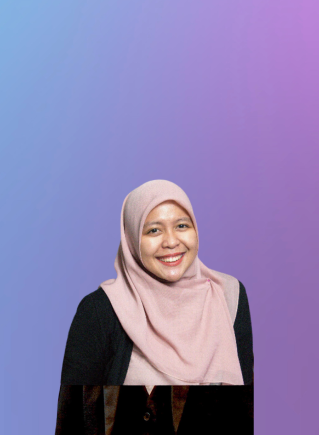
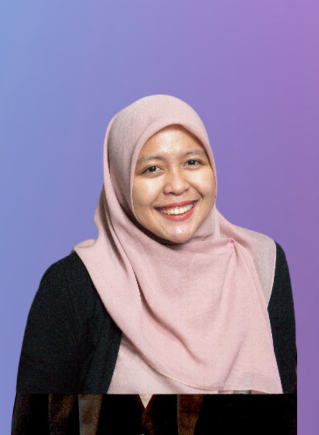
change seminar  speaker image,fix button for lg breakpoint

diff --git a/components/organisms/Dashboard/NotRegistered.jsx b/components/organisms/Dashboard/NotRegistered.jsx
@@ -38,8 +38,11 @@ export default function NotRegistered({ type }) {
           Tekan tombol di bawah ini <br />
           untuk mengetahui info lebih lanjut.
         </p>
-        <div className="flex flex-col lg:flex-row items-center justify-center w-full gap-2 lg:gap-4 md:w-4/5 lg:w-full xl:w-[60%] ">
-          <Link href={`/${type}`} className="w-3/4 mt-3 font-semibold">
+        <div className="flex flex-col lg:flex-row items-center justify-center w-full gap-2 lg:gap-4 md:w-4/5 lg:w-full xl:w-[70%] ">
+          <Link
+            href={`/${type}`}
+            className="w-4/5 mt-3 font-semibold lg:w-full"
+          >
             <NoSSR>
               <Button
                 style={`w-full relative border-none bg-gradient-to-r  from-[#FC39FC] to-[#337EF0] ${
@@ -52,10 +55,13 @@ export default function NotRegistered({ type }) {
               </Button>
             </NoSSR>
           </Link>
-          <Link href="/kompetisi/register" className="w-3/4 mt-3 font-semibold">
+          <Link
+            href="/kompetisi/register"
+            className="w-4/5 mt-3 font-semibold lg:w-full"
+          >
             <NoSSR>
               <Button
-                style={`w-full relative border-none bg-gradient-to-r from-[#FC39FC] to-[#337EF0] ${
+                style={`w-full relative border-none bg-gradient-to-r  from-[#FC39FC] to-[#337EF0] ${
                   theme === "light"
                     ? "button-competition-type"
                     : "button-competition-type-dark"

diff --git a/components/atoms/SpeakerCard.jsx b/components/atoms/SpeakerCard.jsx
@@ -40,14 +40,14 @@ function SpeakerCard({ speaker, secondCard }) {
         <Image
           src={speaker.img}
           alt="Pembicara Seminar Srifoton"
-          width={340}
-          height={320}
+          width={400}
+          height={380}
           quality={100}
           className="rounded-[28px] lg:rounded-[50px] "
         />
         <div
           className={`absolute -bottom-1  w-full transition-all duration-300 ${
-            isHover ? "h-1/2 md:h-2/5" : "h-1/4 md:h-[23%]"
+            isHover ? "h-1/2 md:h-2/5" : "h-1/4 md:h-[20%]"
           } `}
         >
           <div className="absolute inset-0 z-0 w-full glassmorphism rounded-b-[28px] lg:rounded-b-[50px]" />
